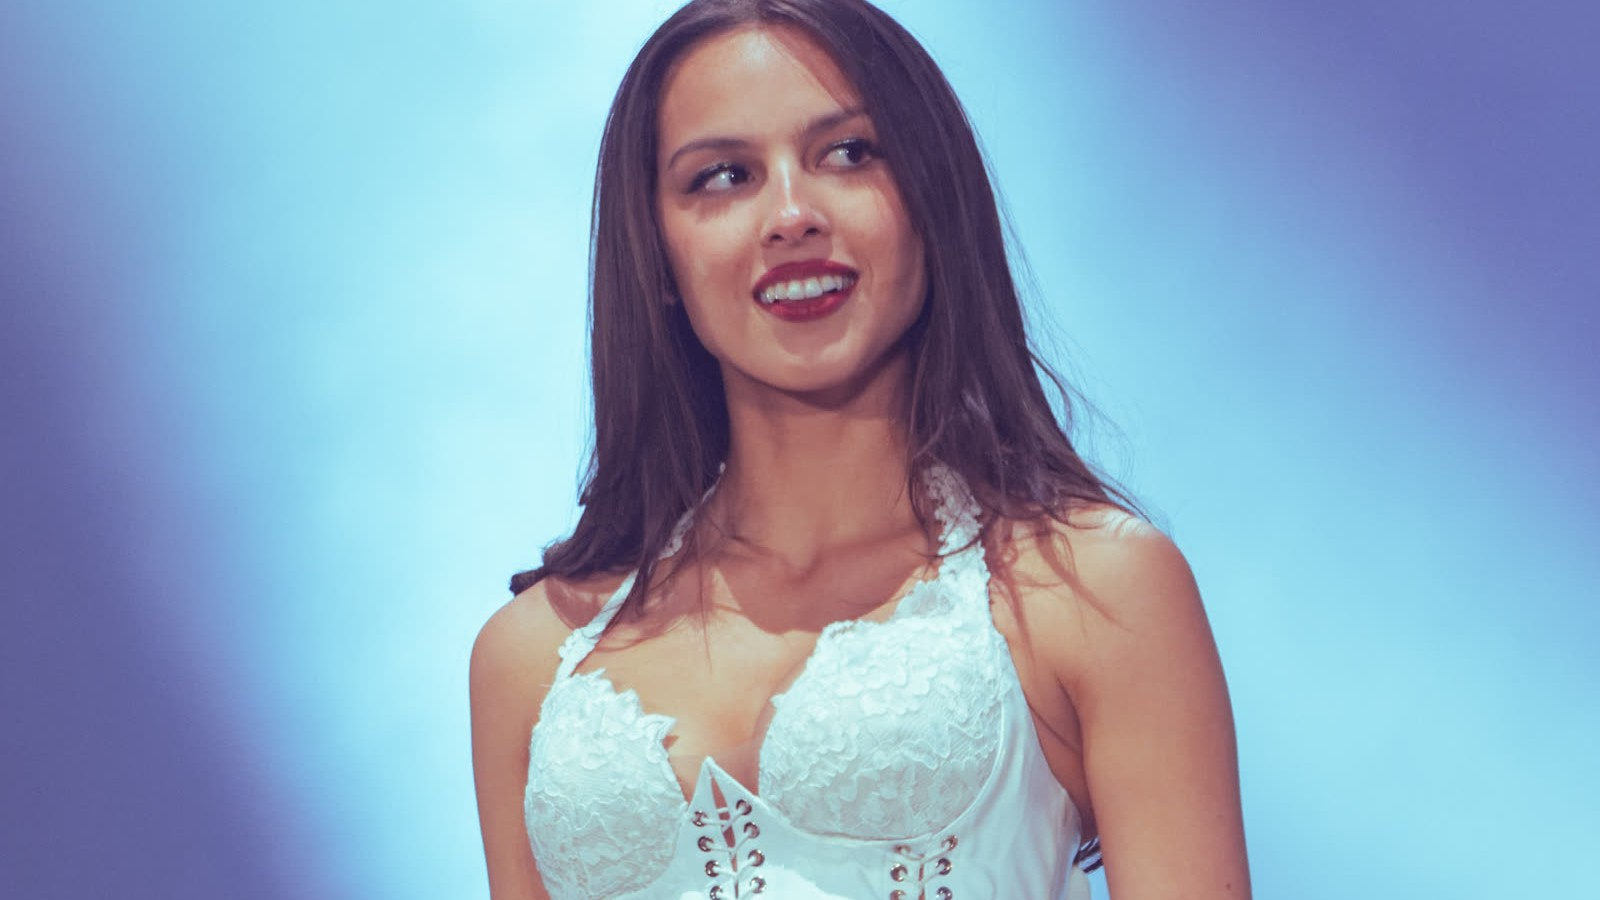
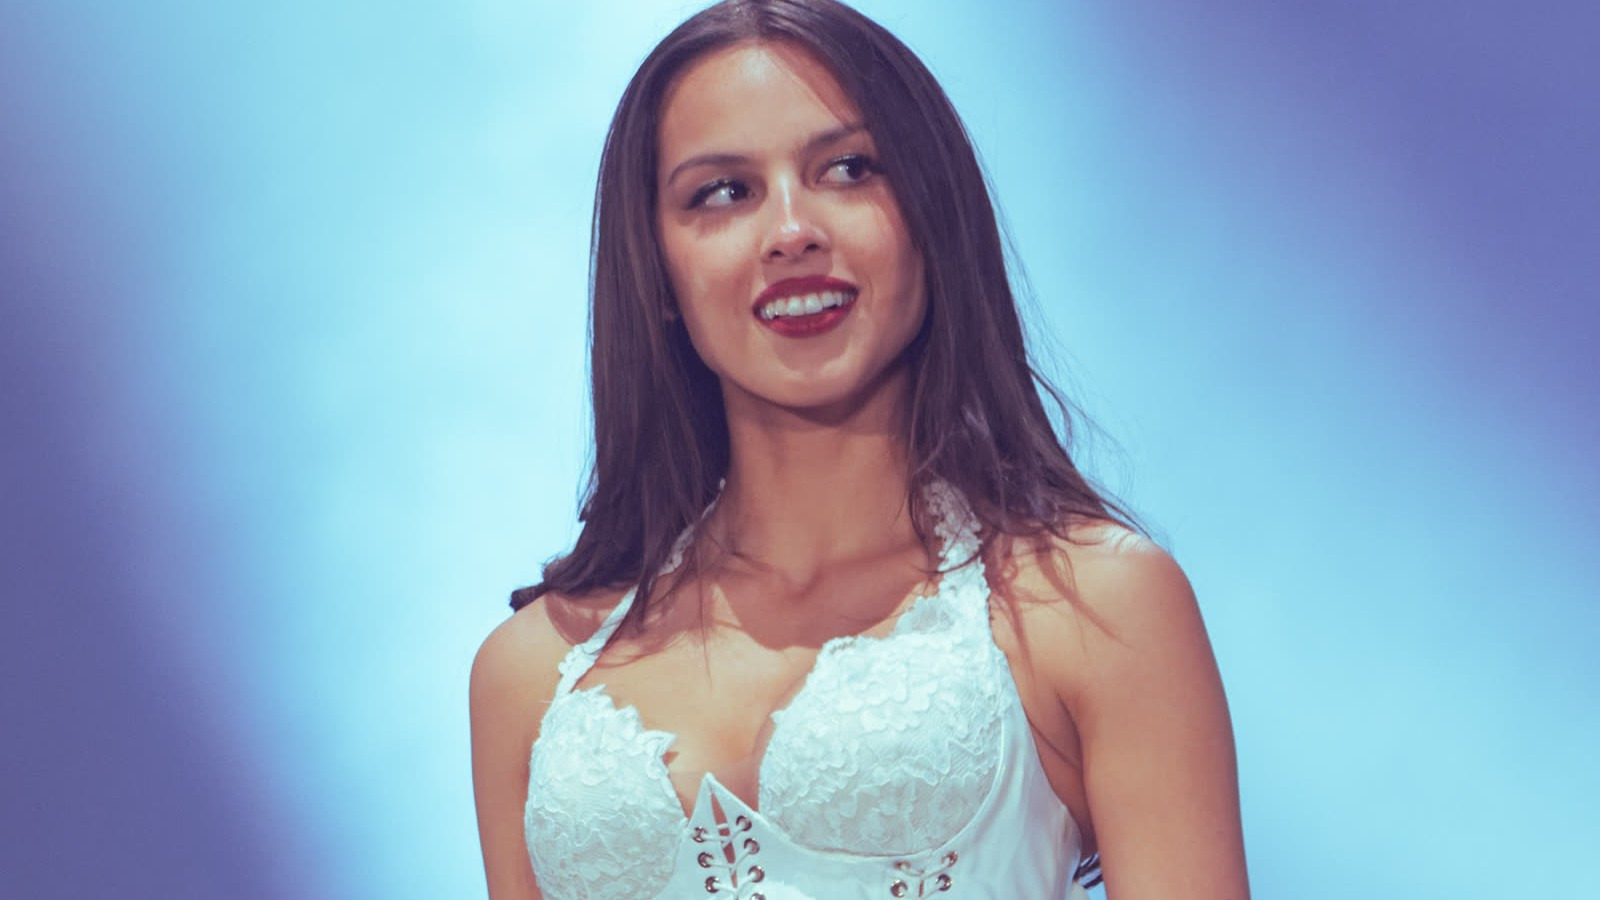
Pin close-up covers to the real hairline.
The crop script now finds the crown silhouette above the face box, so Olivia and any other tight portrait lose the empty sky on top.

diff --git a/public/index.html b/public/index.html
@@ -4,7 +4,7 @@
 <meta charset="utf-8">
 <meta name="viewport" content="width=device-width, initial-scale=1">
 <title>music98.news — Music News, Releases & Charts</title>
-<meta name="m98-build" content="editorial-25">
+<meta name="m98-build" content="editorial-26">
 <meta name="description" content="music98.news — music news, new releases and a weekly Top 50.">
 <meta name="theme-color" content="#ffffff">
 <link rel="preconnect" href="https://itunes.apple.com">

diff --git a/scripts/face_covers.py b/scripts/face_covers.py
@@ -1,8 +1,9 @@
 #!/usr/bin/env python3
 """Cut 16:9 cover stills on the detected face.
 
-Keep the whole head. On a close-up, hang the hair from the top of the
-frame so there is no empty strip of sky above it.
+Keep the whole head. On a close-up, find the real hairline (not a
+guessed pad above the face box) and hang it from the top of the frame
+so there is no empty strip of sky.
 """
 from __future__ import annotations
 
@@ -10,6 +11,7 @@ import urllib.request
 from pathlib import Path
 
 import cv2
+import numpy as np
 
 ROOT = Path(__file__).resolve().parents[1]
 PHOTOS = ROOT / "public" / "photos"
@@ -43,6 +45,25 @@ def detect_face(im):
     return x, y, fw, fh
 
 
+def hair_top(im, face):
+    """First strong silhouette above the face — the crown of the hair."""
+    x, y, fw, fh = face
+    H, W = im.shape[:2]
+    hx0 = max(0, int(x + 0.18 * fw))
+    hx1 = min(W, int(x + 0.82 * fw))
+    y1 = max(2, int(y))
+    gray = cv2.cvtColor(im, cv2.COLOR_BGR2GRAY)
+    roi = gray[0:y1, hx0:hx1].astype(np.float32)
+    if roi.size == 0:
+        return max(0.0, y - 0.06 * fh)
+    gy = cv2.Sobel(roi, cv2.CV_32F, 0, 1, ksize=5)
+    energy = np.abs(gy).mean(axis=1)
+    peak = float(energy.max()) if len(energy) else 0.0
+    if peak < 40:
+        return max(0.0, y - 0.06 * fh)
+    return float(int(np.argmax(energy)))
+
+
 def crop_to_face(im, face):
     H, W = im.shape[:2]
     x, y, fw, fh = face
@@ -52,18 +73,16 @@ def crop_to_face(im, face):
     if need_h > H:
         need_h = float(H)
         need_w = need_h * ASPECT
-    closeup = fh > 0.32 * need_h
-    hair_pad = (0.10 if closeup else 0.45) * fh
-    chin_pad = 0.18 * fh
-    hair = y - hair_pad
-    chin = y + fh + chin_pad
+    closeup = fh > 0.28 * need_h
+    chin = y + fh + 0.18 * fh
+    crown = hair_top(im, face)
     if closeup:
-        top = hair
+        top = crown
     else:
         cy = y + fh * 0.42
         top = cy - need_h / 2
-        if top > hair:
-            top = hair
+        if top > crown:
+            top = crown
     if top + need_h < chin:
         top = chin - need_h
     left = cx - need_w / 2
@@ -73,7 +92,7 @@ def crop_to_face(im, face):
     x1, y1 = int(round(left + need_w)), int(round(top + need_h))
     crop = im[y0:y1, x0:x1]
     out_h = int(round(OUT_W / ASPECT))
-    return cv2.resize(crop, (OUT_W, out_h), interpolation=cv2.INTER_AREA)
+    return cv2.resize(crop, (OUT_W, out_h), interpolation=cv2.INTER_AREA), y0, crown, closeup
 
 
 def main() -> None:
@@ -83,10 +102,23 @@ def main() -> None:
         if im is None:
             raise SystemExit(f"missing {src}")
         face = detect_face(im)
-        out = crop_to_face(im, face)
+        out, y0, crown, closeup = crop_to_face(im, face)
         dest = PHOTOS / (src.stem + "-banner.jpg")
         cv2.imwrite(str(dest), out, [int(cv2.IMWRITE_JPEG_QUALITY), 90])
-        print("wrote", dest.name, out.shape[1], out.shape[0], "face", tuple(round(v) for v in face))
+        print(
+            "wrote",
+            dest.name,
+            out.shape[1],
+            out.shape[0],
+            "face",
+            tuple(round(v) for v in face),
+            "crown",
+            round(crown),
+            "crop_y",
+            y0,
+            "closeup",
+            closeup,
+        )
 
 
 if __name__ == "__main__":
